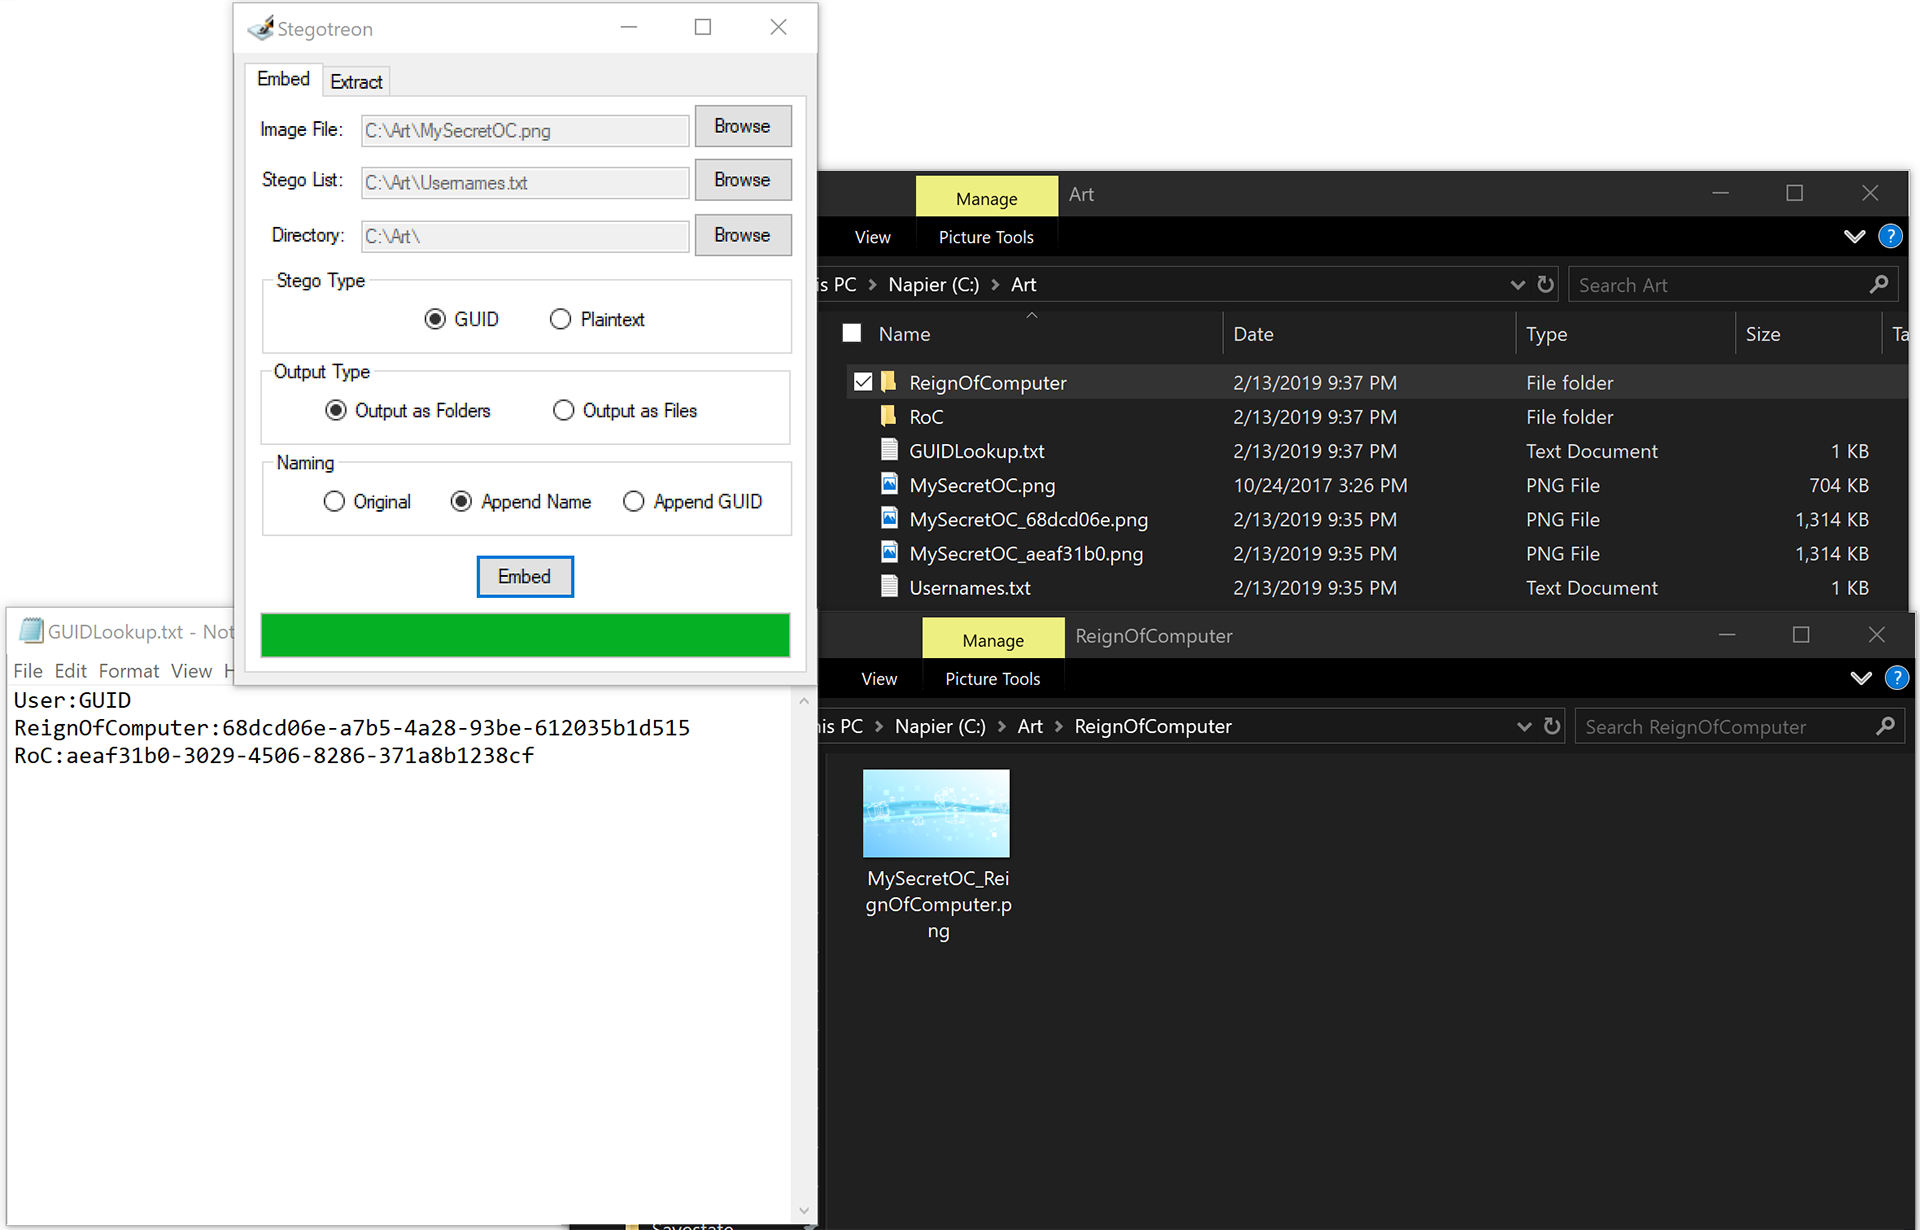
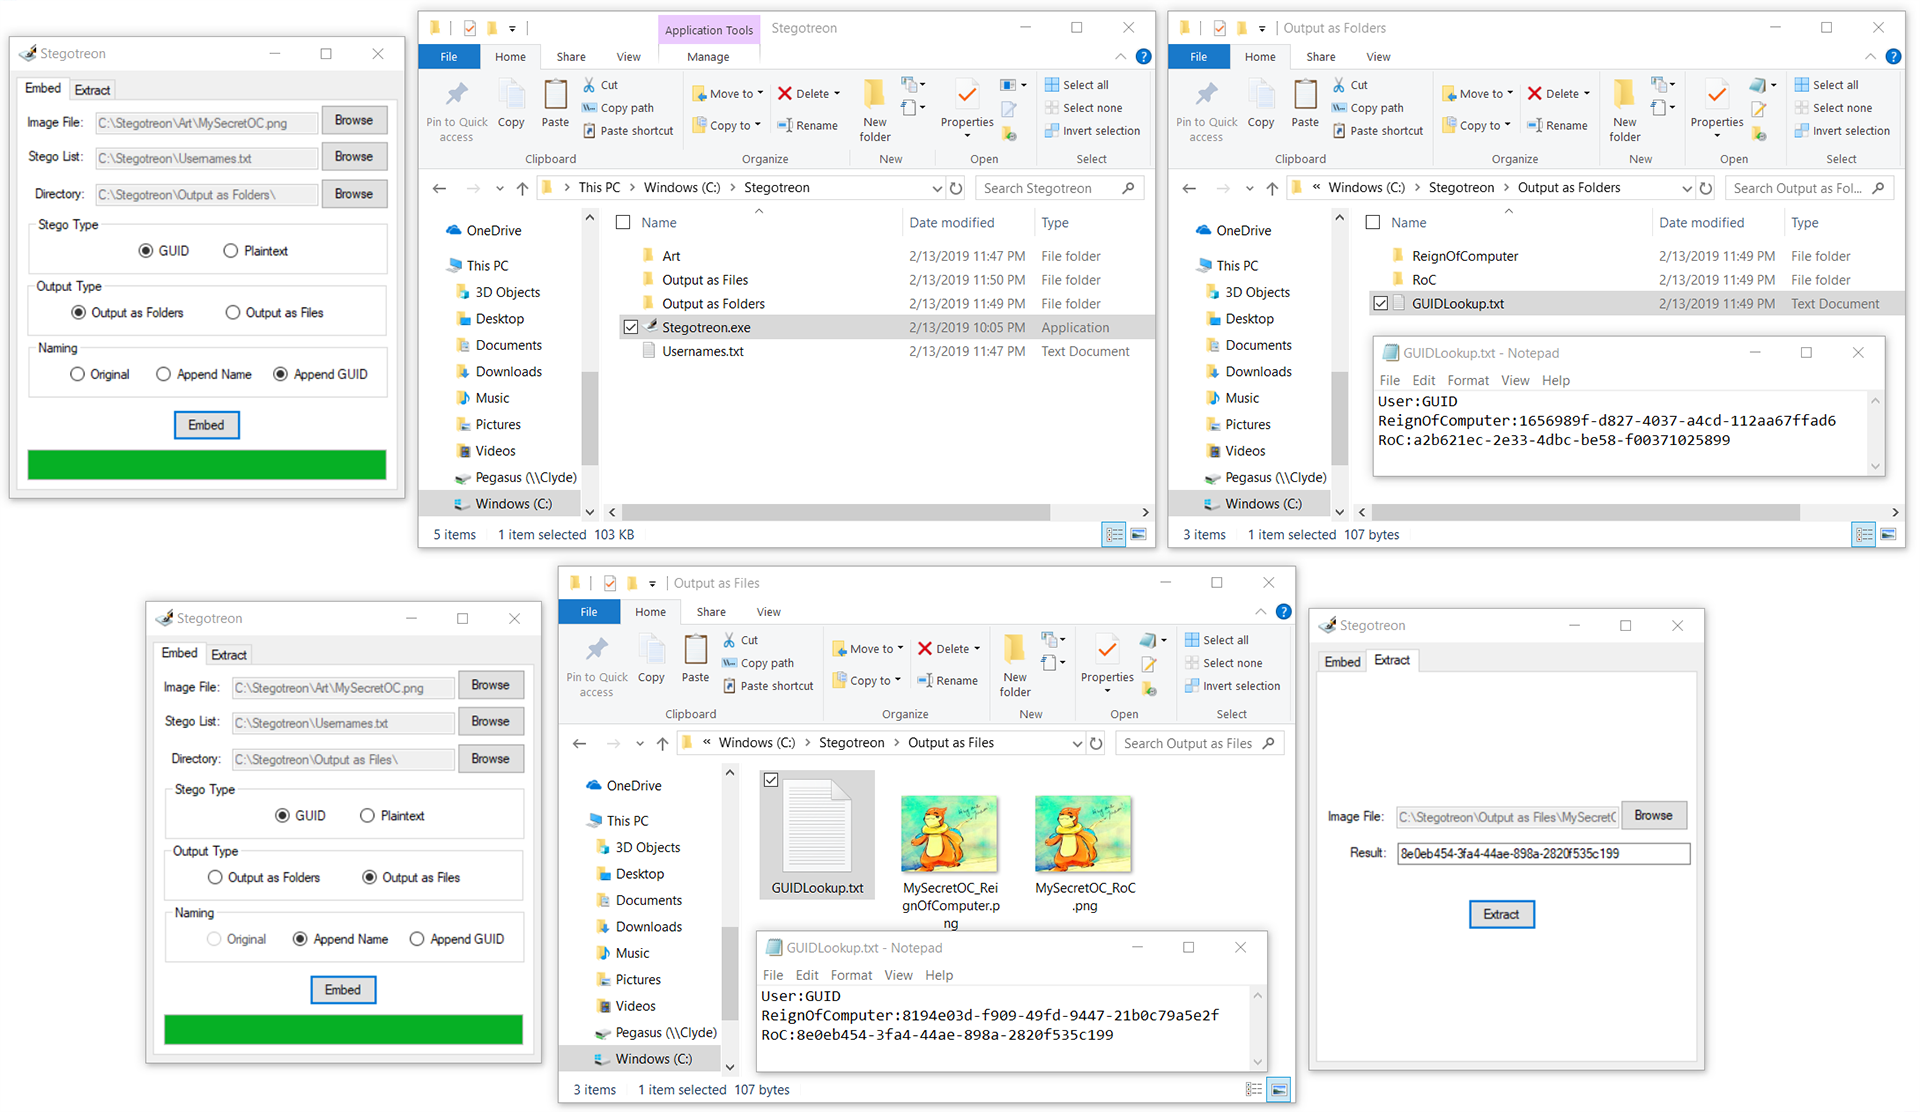
Update Readme
Update Readme Again

Better Screenshot

Add Twitter Contact

diff --git a/Stegotreon/Properties/Resources.Designer.cs b/Stegotreon/Properties/Resources.Designer.cs
@@ -8,10 +8,10 @@
 // </auto-generated>
 //------------------------------------------------------------------------------
 
-namespace Stegotreon.Properties
-{
-
-
+namespace Stegotreon.Properties {
+    using System;
+    
+    
     /// <summary>
     ///   A strongly-typed resource class, for looking up localized strings, etc.
     /// </summary>
@@ -19,51 +19,43 @@ namespace Stegotreon.Properties
     // class via a tool like ResGen or Visual Studio.
     // To add or remove a member, edit your .ResX file then rerun ResGen
     // with the /str option, or rebuild your VS project.
-    [global::System.CodeDom.Compiler.GeneratedCodeAttribute("System.Resources.Tools.StronglyTypedResourceBuilder", "4.0.0.0")]
+    [global::System.CodeDom.Compiler.GeneratedCodeAttribute("System.Resources.Tools.StronglyTypedResourceBuilder", "15.0.0.0")]
     [global::System.Diagnostics.DebuggerNonUserCodeAttribute()]
     [global::System.Runtime.CompilerServices.CompilerGeneratedAttribute()]
-    internal class Resources
-    {
-
+    internal class Resources {
+        
         private static global::System.Resources.ResourceManager resourceMan;
-
+        
         private static global::System.Globalization.CultureInfo resourceCulture;
-
+        
         [global::System.Diagnostics.CodeAnalysis.SuppressMessageAttribute("Microsoft.Performance", "CA1811:AvoidUncalledPrivateCode")]
-        internal Resources()
-        {
+        internal Resources() {
         }
-
+        
         /// <summary>
         ///   Returns the cached ResourceManager instance used by this class.
         /// </summary>
         [global::System.ComponentModel.EditorBrowsableAttribute(global::System.ComponentModel.EditorBrowsableState.Advanced)]
-        internal static global::System.Resources.ResourceManager ResourceManager
-        {
-            get
-            {
-                if ((resourceMan == null))
-                {
+        internal static global::System.Resources.ResourceManager ResourceManager {
+            get {
+                if (object.ReferenceEquals(resourceMan, null)) {
                     global::System.Resources.ResourceManager temp = new global::System.Resources.ResourceManager("Stegotreon.Properties.Resources", typeof(Resources).Assembly);
                     resourceMan = temp;
                 }
                 return resourceMan;
             }
         }
-
+        
         /// <summary>
         ///   Overrides the current thread's CurrentUICulture property for all
         ///   resource lookups using this strongly typed resource class.
         /// </summary>
         [global::System.ComponentModel.EditorBrowsableAttribute(global::System.ComponentModel.EditorBrowsableState.Advanced)]
-        internal static global::System.Globalization.CultureInfo Culture
-        {
-            get
-            {
+        internal static global::System.Globalization.CultureInfo Culture {
+            get {
                 return resourceCulture;
             }
-            set
-            {
+            set {
                 resourceCulture = value;
             }
         }

diff --git a/Stegotreon/Properties/Settings.Designer.cs b/Stegotreon/Properties/Settings.Designer.cs
@@ -8,21 +8,17 @@
 // </auto-generated>
 //------------------------------------------------------------------------------
 
-namespace Stegotreon.Properties
-{
-
-
+namespace Stegotreon.Properties {
+    
+    
     [global::System.Runtime.CompilerServices.CompilerGeneratedAttribute()]
-    [global::System.CodeDom.Compiler.GeneratedCodeAttribute("Microsoft.VisualStudio.Editors.SettingsDesigner.SettingsSingleFileGenerator", "11.0.0.0")]
-    internal sealed partial class Settings : global::System.Configuration.ApplicationSettingsBase
-    {
-
+    [global::System.CodeDom.Compiler.GeneratedCodeAttribute("Microsoft.VisualStudio.Editors.SettingsDesigner.SettingsSingleFileGenerator", "15.6.0.0")]
+    internal sealed partial class Settings : global::System.Configuration.ApplicationSettingsBase {
+        
         private static Settings defaultInstance = ((Settings)(global::System.Configuration.ApplicationSettingsBase.Synchronized(new Settings())));
-
-        public static Settings Default
-        {
-            get
-            {
+        
+        public static Settings Default {
+            get {
                 return defaultInstance;
             }
         }

diff --git a/Stegotreon/Properties/AssemblyInfo.cs b/Stegotreon/Properties/AssemblyInfo.cs
@@ -10,7 +10,7 @@ using System.Runtime.InteropServices;
 [assembly: AssemblyConfiguration("")]
 [assembly: AssemblyCompany("")]
 [assembly: AssemblyProduct("Stegotreon")]
-[assembly: AssemblyCopyright("Copyright ©  2019")]
+[assembly: AssemblyCopyright("Copyright © ReignOfComputer 2019")]
 [assembly: AssemblyTrademark("")]
 [assembly: AssemblyCulture("")]
 

diff --git a/README.md b/README.md
@@ -4,6 +4,8 @@
 
 ## Description
 
+Download: https://github.com/ReignOfComputer/Stegotreon/releases
+
 Stegotreon takes a PNG file and a line-separated text file, then automatically generates files with text hidden inside through steganograpy.
 
 Artists on Patreon (and elsewhere) have an issue where their art is leaked outside the paywall. Some have resorted to sending image files directly to patrons, though leaks still happen. Stegotreon creates unique variants of the image file that can be reversed to identify the leaker, even if the file name is changed.
@@ -15,13 +17,28 @@ Artists on Patreon (and elsewhere) have an issue where their art is leaked outsi
 1. Browse to the Image File.
 2. Browse to the TXT File containing unique identifiers (e.g. usernames, emails).
 3. Change the Save directory if necessary.
-4. Select a Steganograpy type: *GUID* generates a unique identifier (e.g. 68dcd06e-a7b5-4a28-93be-612035b1d515). This is good because it doesn't reveal any PII (Personally Identifiable Information), and is confusing if someone does try to reveal the text. If GUID is selected (default), a text file with GUID:Name pairs will be generated for lookup. *Plaintext* will just simply hide the name as supplied in the TXT file in the image.
-5. Select an Output type: *Output as Folders* will generate a folder for each identifier in the TXT file. *Output as Files* will generate the image files in the working directory with the identifier (first 8 characters in the case of GUID) appended at the end of the filename.
-6. Select a Naming type: *Original* just uses the original filename of the image. Only available for Output as Folders. *Append Name* will append the full identifier from the TXT file at the end of the filename (e.g. Filename_RoC.png). *Append GUID* will append the first 8 characters of the GUID at the end of the filename (e.g. Filename_68dcd06e.png), for lookup in GUIDLookup.txt in the future.
+4. Select a Steganograpy type: **GUID** generates a unique identifier (e.g. 68dcd06e-a7b5-4a28-93be-612035b1d515). This is good because it doesn't reveal any PII (Personally Identifiable Information), and is confusing if someone does try to reveal the text. If GUID is selected (default), a text file with GUID:Name pairs will be generated for lookup. **Plaintext** will just simply hide the name as supplied in the TXT file in the image.
+5. Select an Output type: **Output as Folders** will generate a folder for each identifier in the TXT file. **Output as Files** will generate the image files in the working directory with the identifier (first 8 characters in the case of GUID) appended at the end of the filename.
+6. Select a Naming type: **Original** just uses the original filename of the image. Only available for Output as Folders. **Append Name** will append the full identifier from the TXT file at the end of the filename (e.g. Filename_RoC.png). **Append GUID** will append the first 8 characters of the GUID at the end of the filename (e.g. Filename_68dcd06e.png), for lookup in GUIDLookup.txt in the future.
 7. Embed!
 
 Suggested Settings:
 > Stego Type - GUID | Output Type - Output as Folders | Naming Type - GUID
+
+## TXT File
+
+The Stego List TXT file should just be a .txt file (which can be generated in Notepad) that has entries on each line, such as:
+
+```
+Username1
+Username2
+Username3
+email1@example.com
+email2@example.com
+email3@example.com
+```
+
+If the records are in Excel, you can select the entire column and paste it into Notepad and that should do the trick.
 
 ## Extraction
 
@@ -35,6 +52,10 @@ Suggested Settings:
 2. While this tool drastically decreases the time it takes to process batch steganograpy, it is still very time consuming to send the files.
 3. No error handling exists - expect errors if you don't use the tool right.
 4. This tool only handles PNG-24 (.png) files.
+
+## Did It Work?
+
+Let me know! Twitter: @ReignOfComputer
 
 ## License
 
